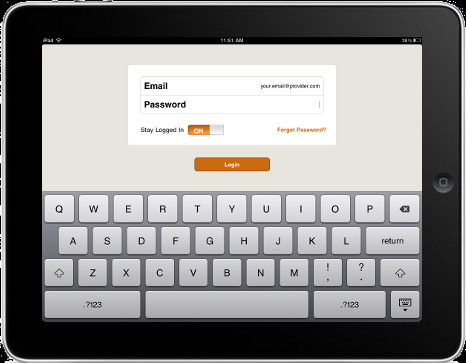
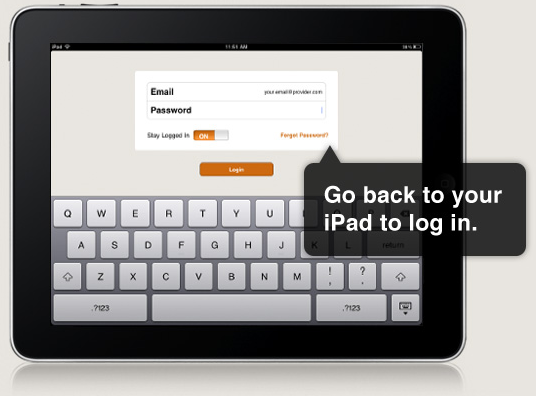
ipad: finish the registration welcome page

diff --git a/site/templates/static/ipad_registration_welcome.html b/site/templates/static/ipad_registration_welcome.html
@@ -4,30 +4,31 @@
 {% block description %}POPVOX iPad application for Congressional staff to browse, search, read, and annotate or take notes on bills in the U.S. Congress.{% endblock %}
 {% block head %}
 <style>
-h1 span { font-family: Arial, Helvetica; font-size: 16px; color: #777; }
-strong { font-weight: bold; }
+h1 { font-size: 48px; }
+strong { font-weight: bold; color: #333; }
+p { font-size: 17px; line-height: 24px; color: #555; }
 </style>
 {% endblock %}
 {% block content %}
 
-<div class="content">
+<div class="content" style="padding-top: 30px">
 
-	<h1 style="text-align: center">Registration Complete</h1>
+	<div class="col_5 col_top">
+	<div style="padding: 0 15px 0 0">
+		<h1>Registration Complete</h1>
 
-	<div class="col_6 col_top">
-		<img src="/media/mobile/pub/ipad-markup-3.png" width="466" height="387"/>
-	</div>
-	
-	<div class="col_6 col_top col_last">
-	<div style="padding: 2em 0 0 2em;">
 		<p>Your POPVOX registration is complete.</p>
 
-		<p><strong>Go back to POPVOX Markup on your iPad and log in with the email address and password you used to register.</strong></p>
-
+		<p><strong>Go back to POPVOX MarkUp on your iPad and log in.</strong></p>
+		
 		<p>Your registration also works here POPVOX.com.
-		{% if user.userprofile.is_leg_staff %}You can use POPVOX.com to read your constituent mail coming from POPVOX, access bill reports, and organization contact details.
-		{% else %}Use POPVOX.com to explore bill reports, create your organization profile, or weigh-in on legislation.{% endif %}</p>
+		{% if user.userprofile.is_leg_staff %}You can use POPVOX.com to read your constituent mail coming from POPVOX, access bill reports, and <a href="/orgs">organization contact details</a>.
+		{% else %}Use POPVOX.com to explore bill reports, <a href="/organization">create your organization profile</a>, or <a href="/bills">weigh-in on legislation</a>.{% endif %}</p>
 	</div>
+	</div>
+	
+	<div class="col_7 col_top col_last">
+		<img src="/media/mobile/pub/ipad-markup-3.png" width="536" height="396"/>
 	</div>
 	
 </div>
